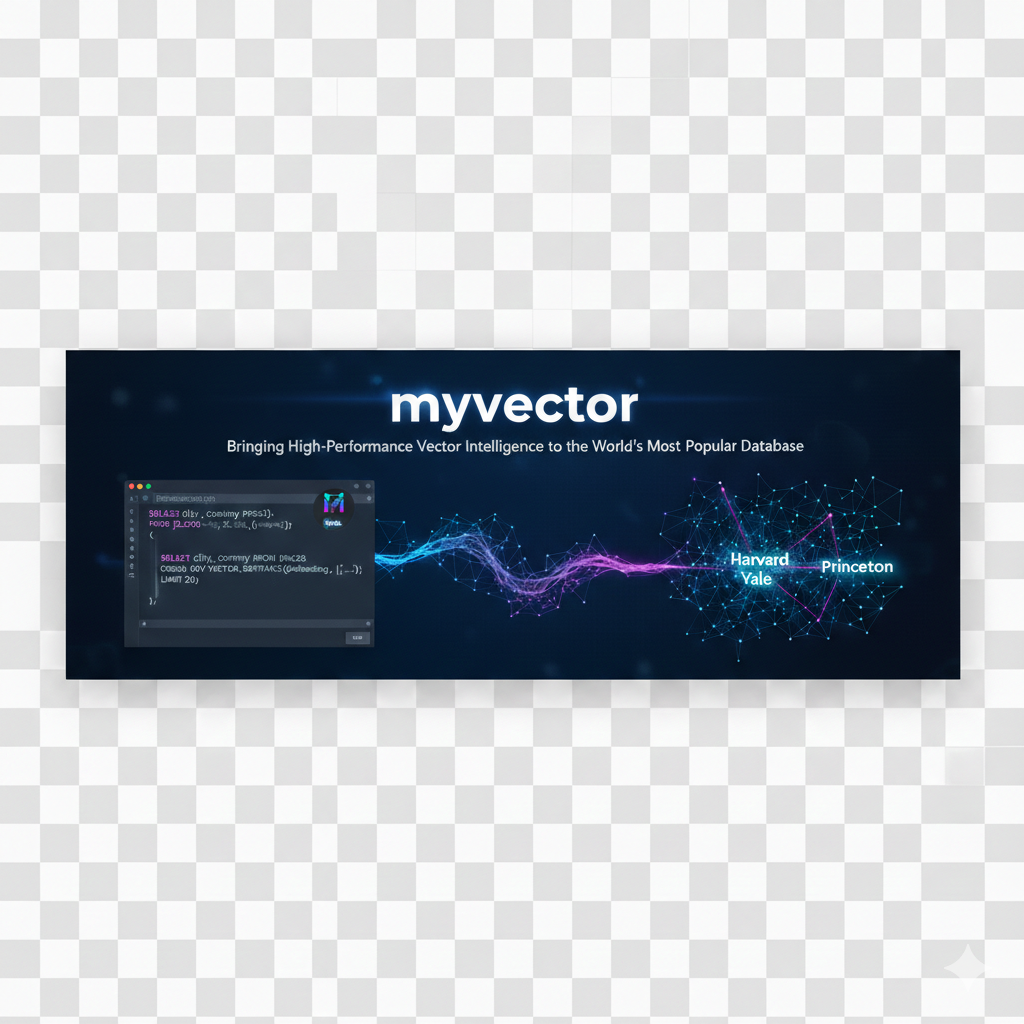
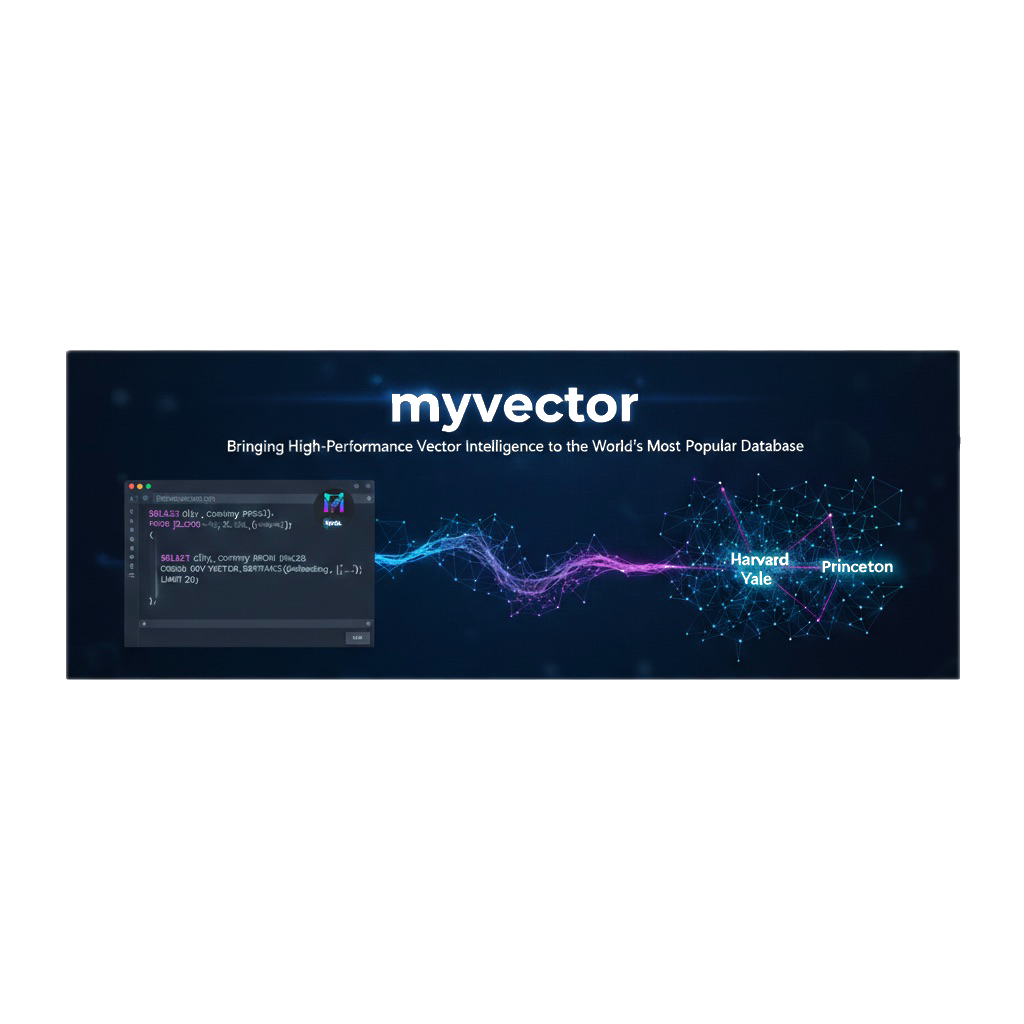
docs: use transparent PNG assets in README
Switch README banner and logo references back to PNG and update the
PNG files so the background is transparent instead of white.

diff --git a/README.md b/README.md
@@ -1,5 +1,5 @@
 <p align="center">
-  <img src="assets/Banner_Image.jpeg" alt="MyVector Banner" width="100%">
+  <img src="assets/Banner_Image.png" alt="MyVector Banner" width="100%">
 </p>
 
 <p align="center">
@@ -302,7 +302,7 @@ This project is licensed under the GNU General Public License v2.0 - see the [LI
 ---
 
 <p align="center">
-  <img src="assets/Logo_Image.jpeg" alt="MyVector Logo" width="80">
+  <img src="assets/Logo_Image.png" alt="MyVector Logo" width="80">
 </p>
 
 <p align="center">
